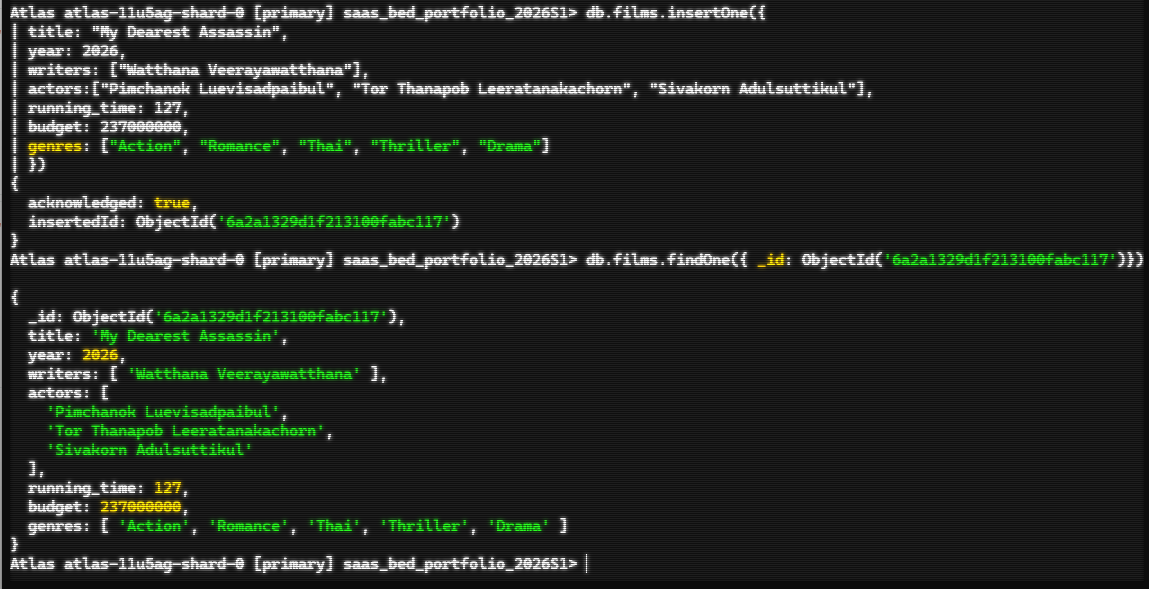
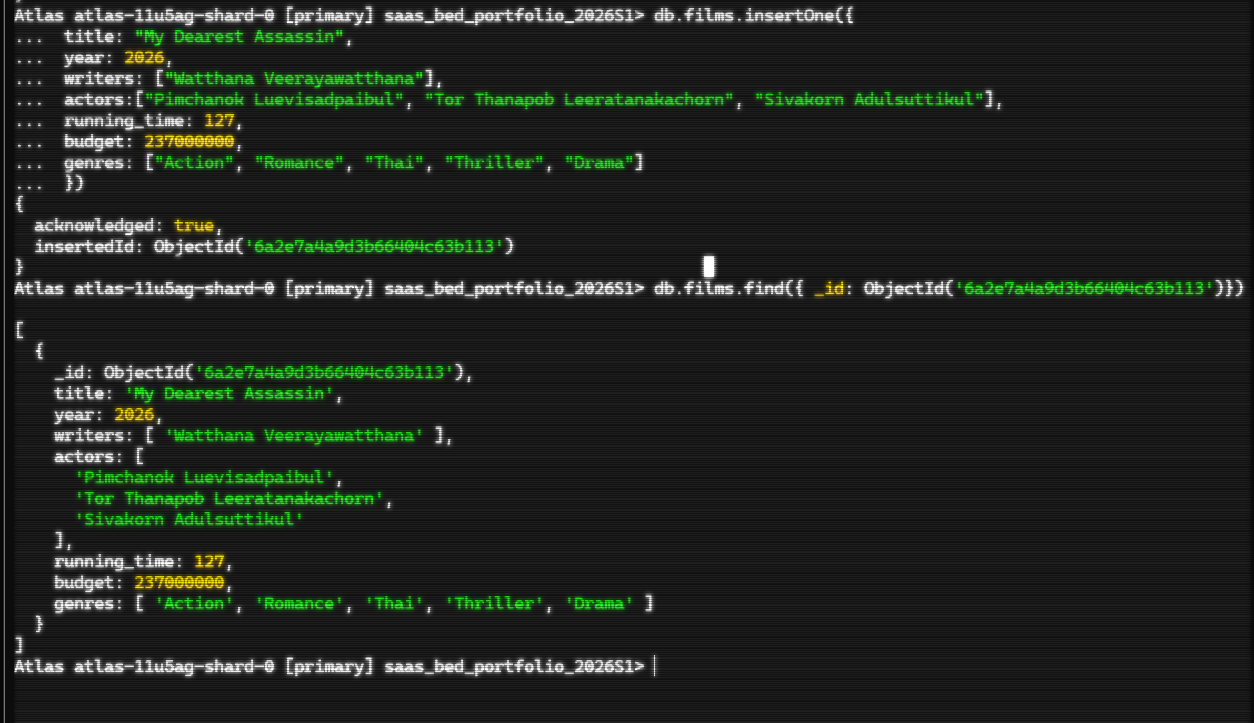
feat(step-4): Step 4 completed

Changed region(s): [[0.0, 0.0, 1.0, 1.0]]

diff --git a/answers.md b/answers.md
@@ -181,64 +181,116 @@ Example: mongos mongodb://192.168.0.5:9999/foo
 > Provide the schema validation code for the collection. 
 
 ```php
+
 db.createCollection("films", {
   validator: {
     $jsonSchema: {
-    bsonType: "object",
-    required: ["title"],
-    properties: {
-      title: {
-        bsonType: "string"
-      },
-      year: {
-        bsonType: "int",
-        minimum: 1888,
-        maximum: 2100
-      },
-      writers: {
-        bsonType: "array",
-        items: {
-          bsonType: "string"
-        }
-      },
-      running_time: {
-        bsonType: "int",
-        minimum: 1
-      },
-      budget: {
-        bsonType: ["int", "long"],
-        minimum: 0
-      },
-      actors: {
-        bsonType: "array",
-        items: {
-          bsonType: "string"
-        }
-      },
-      directors: {
-        bsonType: "array",
-        items: {
-          bsonType: "string"
-        }
-      },
-      imdb_id: {
-        bsonType: ["string", "null"]
-      },
-      imdb_rating: {
-        bsonType: ["double", "null"],
-        minimum: 0,
-        maximum: 10
-      },
-      rotten_tomatoes: {
-        bsonType: ["int", "null"],
-        minimum: 0,
-        maximum: 100
+      bsonType: "object",
+      required: ["title"],
+      description: "Film collection documents",
+
+      properties: {
+        _id: {
+          bsonType: "objectId",
+          description: "Unique document identifier"
+        },
+
+        title: {
+          bsonType: "string",
+          description: "Movie title"
+        },
+
+        year: {
+          bsonType: "int",
+          description: "Year the film was released"
+        },
+
+        writers: {
+          bsonType: "array",
+          description: "List of writers",
+          items: {
+            bsonType: "string"
+          }
+        },
+
+        franchise: {
+          bsonType: "string",
+          description: "Film franchise name if applicable"
+        },
+
+        running_time: {
+          bsonType: "int",
+          description: "Running time in minutes"
+        },
+
+        budget: {
+          bsonType: ["int", "long", "null"],
+          description: "Production budget"
+        },
+
+        box_office: {
+          bsonType: ["int", "long", "null"],
+          description: "Box office revenue"
+        },
+
+        actors: {
+          bsonType: "array",
+          description: "List of actors",
+          items: {
+            bsonType: "string"
+          }
+        },
+
+        directors: {
+          bsonType: "array",
+          description: "List of directors",
+          items: {
+            bsonType: "string"
+          }
+        },
+
+        summary: {
+          bsonType: "string",
+          description: "Brief plot summary"
+        },
+
+        random: {
+          bsonType: ["double", "int"],
+          description: "Random value used for sampling"
+        },
+
+        genres: {
+          bsonType: "array",
+          description: "List of genres",
+          items: {
+            bsonType: "string"
+          }
+        },
+
+        imdb_id: {
+          bsonType: ["string", "null"],
+          description: "IMDb identifier"
+        },
+
+        imdb_rating: {
+          bsonType: ["double", "int", "null"],
+          description: "IMDb rating"
+        },
+
+        rotten_tomatoes: {
+          bsonType: ["int", "null"],
+          description: "Rotten Tomatoes score"
+        },
+
+        updated_at: {
+          bsonType: "date",
+          description: "Date the document was last updated"
         }
       }
     }
   }
 });
-``` 
+```
 
 **3.4 Collection Creation**
 
@@ -273,10 +325,46 @@ db.films.insertOne({
  })
 ```
 
-![img.png](assets/images/step-4-001.png)
+![img_1.png](assets/images/step-4-001.png)
 
 
 **4.2 Inserting Data from File**
+```text
+film-data-json.txt
+```
+
+```php
+$ mongoimport --uri "mongodb+srv://20070505_db_user:<MY_PASSWORD>@cluster0.wxkuth2.mongodb.net/saas_bed_portfolio_2026S1" --collection "
+films" --type json --file "film-data-json.txt" --jsonArray
+```
+
+![step-4-002.png](assets/images/step-4-002.png)
+
+**4.3 Inserting Data**
+
+```php
+db.films.insertMany([
+{
+title: "Pride",
+year: 2014,
+writers: ['Stephen Beesform'],
+franchise: "",
+running_time: 192,
+imdb_rating: 7.8
+},
+{
+title: "Pee Wee Herman's Big Adventure",
+},
+{
+title: "A Fictional Tale as a Fake Film",
+}
+])
+{
+```
+
+![img.png](assets/images/step-4-003.png)
+
+
 ## Software as a Service - Back-End Development
 
 #
